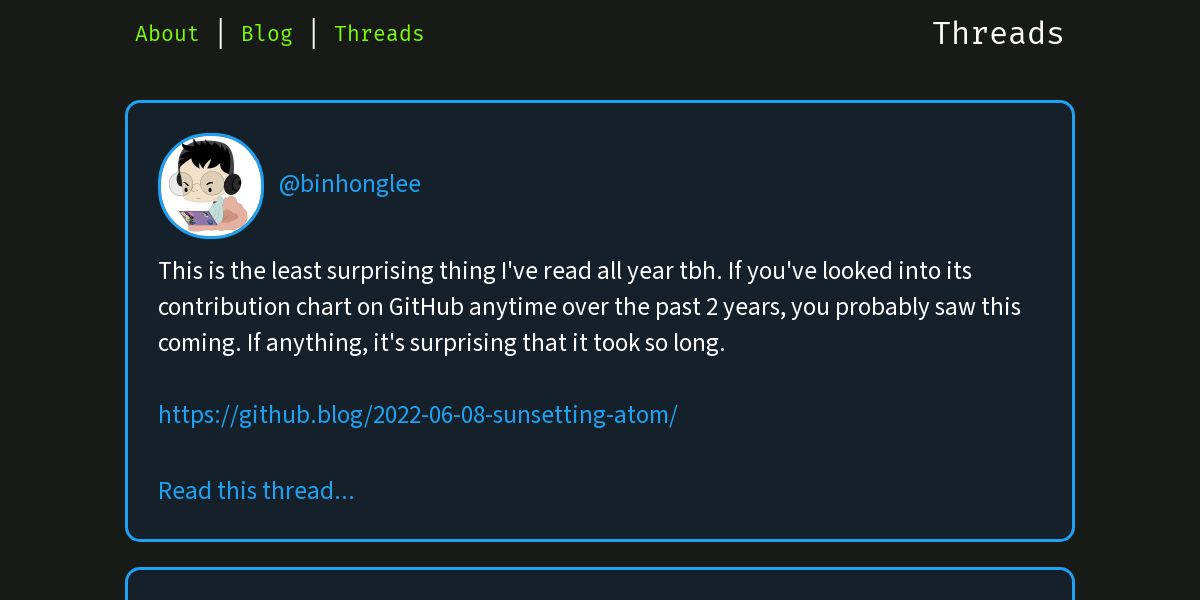
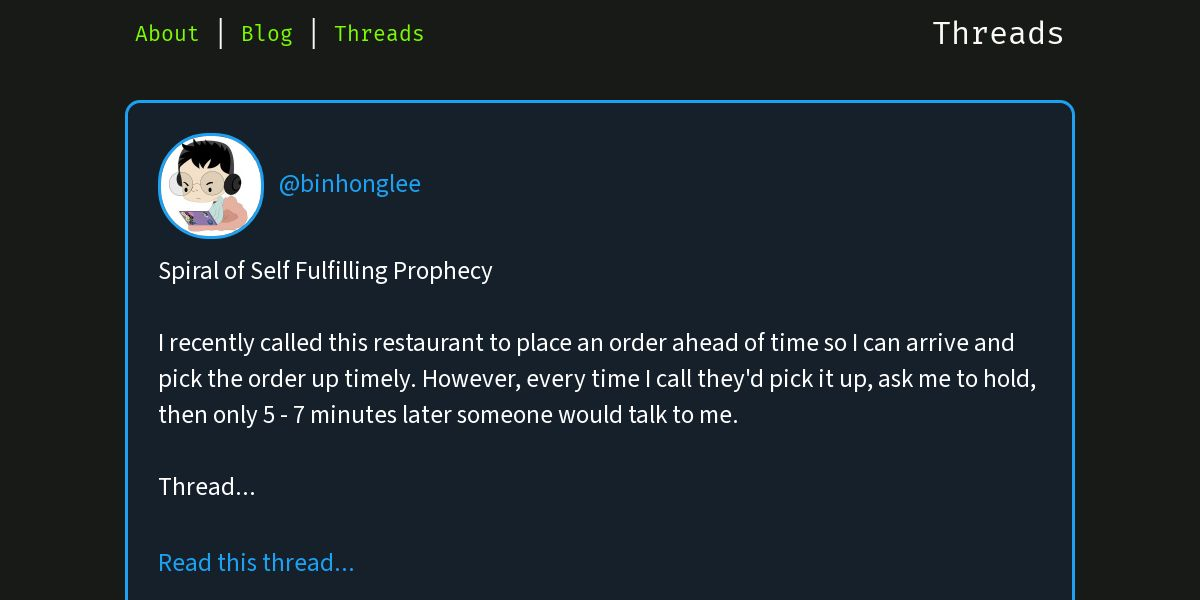
deploy: e476948deffdb2a4449fd298cbbf2c976f6730c9

Changed region(s): [[0.1233, 0.42, 0.8633, 0.72], [0.0925, 0.87, 0.8942, 0.96], [0.1233, 0.78, 0.2775, 0.84]]

diff --git a/1541251107418124288.html b/1541251107418124288.html
@@ -1,0 +1,104 @@
+<!DOCTYPE html>
+<html lang="en">
+  <head>
+    <link data-rh="true" rel="shortcut icon" href="https://binhong.me/images/profile.png" type="image/x-icon">
+    <meta charset="utf-8">
+    <meta name="viewport" content="initial-scale=0.75">
+    <meta property="og:locale" content="en_US">
+    <meta property="og:type" content="profile">
+    <meta property="og:url" content="https://binhong.me/threads">
+    <meta property="og:site_name" content="Threads by BinHong Lee">
+    <meta property="og:title" content="Threads">
+    <meta property="og:description" content="Spiral of Self Fulfilling Prophecy  I recently called this restaurant to place an order ahead of time so I can arrive and pick the order up timely. However, every time I call they'd pick it up, ask me to hold, then only 5 - 7 minutes later someone would talk to me.  Thread...">
+    <meta property="og:image" content="https://binhong.me/threads/preview/1541251107418124288.jpg">
+    <meta property="og:profile:first_name" content="BinHong">
+    <meta property="og:profile:last_name" content="Lee">
+    <meta property="og:username" content="binhong">
+    <meta name="twitter:card" content="summary_large_image">
+    <meta name="twitter:description" content="Spiral of Self Fulfilling Prophecy  I recently called this restaurant to place an order ahead of time so I can arrive and pick the order up timely. However, every time I call they'd pick it up, ask me to hold, then only 5 - 7 minutes later someone would talk to me.  Thread...">
+    <meta name="twitter:title" content="Threads by BinHong Lee">
+    <meta name="twitter:image" content="https://binhong.me/threads/preview/1541251107418124288.jpg">
+    <meta name="twitter:image:alt" content="Commissioned image icon of me coding with a pair of black headphones on while sitting on a pink bean bag wearing a light blue hoodie. The laptop is purple with a bunch of mostly MLH demo stickers on it.">
+    <meta name="twitter:site" content="@binhonglee">
+    <meta name="robots" content="max-image-preview:large">
+    <meta name="image" content="https://binhong.me/threads/preview/1541251107418124288.jpg" />
+    <title>Threads by BinHong Lee</title>
+    <link rel="stylesheet" href="https://binhong.me/fonts/fonts.css">
+    <link rel="stylesheet" href="./threads.css">
+    <link rel="stylesheet" href="https://binhong.me/blog/style.css">
+  </head>
+  <body>
+    <details class="dark_mode_toggle" role="button" open>
+      <summary>
+        <div class="content">
+          <div class="secondary_block">
+            <p class="name-title">Threads</p>
+          </div>
+        </div>
+      </summary>
+    </details>
+    <div class="wrapper">
+      <div class="content dropdown">
+        <button class="dropdown_toggle">+</button>
+        <div class="header_links">
+          <a class="link" href="https://binhong.me/">About</a>
+          <p>|</p>
+          <a class="link" href="https://binhong.me/blog">Blog</a>
+          <p>|</p>
+          <a class="link" href="https://binhong.me/threads">Threads</a>
+        </div>
+      </div>
+      <div class="content_body primary_block">
+        <div class="content tweet_block">
+          <div class="tweet_block">
+            <a rel="noopener noreferrer author" href="https://twitter.com/binhonglee/">
+              <div class="profile_picture_block">
+                <img src="https://pbs.twimg.com/profile_images/1473762920584531969/K5ay-Frc_200x200.jpg" alt="Profile picture of @binhonglee on Twitter." />
+                @binhonglee
+              </div>
+            </a>
+            <p class="text">Spiral of Self Fulfilling Prophecy
+            <br />
+            <br />I recently called this restaurant to place an order ahead of time so I can arrive and pick the order up timely. However, every time I call they'd pick it up, ask me to hold, then only 5 - 7 minutes later someone would talk to me.
+            <br />
+            <br />Thread...</p>
+            <p class="text">While waiting, I started to think about why would a restaurant put "taking an order over phone" at such a low priority. Obviously I don't know the inner workings of the restaurant and I've never operated a restaurant myself so these are all pure speculations.</p>
+            <p class="text">I figured maybe it's because the volume of phone call is low so the incentive of improving the process is low. But then, what if the volume is only low because the customers are "trained" (with bad experiences) to not place order over phone?</p>
+            <p class="text">less calls -&gt; less sale volume -&gt; lower priority -&gt; bad experience -&gt; less calls
+            <br />
+            <br />You get the idea. It "could" go the other way too (until it reaches the point of diminishing return).
+            <br />
+            <br />PS: I say "could" because we don't know. This could also be peak number of calls, who know?</p>
+            <p class="text">In that case, this sounds like self-fulfilling prophecy. By assuming low value, you put low emphasis on something, and in return got low value (which you'd then proudly point at it and say "I told you so").</p>
+            <p class="text">"Most of the time, you either put in 100% of the effort to get 100% of the result or anything less for 0%. When something doesn't work out, people claim that they know it wouldn't work out so they put in less effort. Of course it didn't, you didn't actually tried meaningfully."</p>
+            <p class="text">I put that in quotes because I remember hearing someone said this to my mum when I was much younger (like in my teens) and thought it was interesting.
+            <br />
+            <br />(Note: I think this person was trying to get my mum to join their MLM so I won't get into the weeds of it.)</p>
+            <p class="text">Maybe they were quoting someone else, I wouldn't know, but it stuck with me enough that I still think about things like this sometimes. (The conversation was also in Mandarin so I roughly translated that quote.)</p>
+            <p class="text">Did I fail because I didn't try hard enough or because I focus on the wrong stuff? It's sometimes hard to tell without actually fail first. Maybe next time when approaching a problem, don't go with a predetermined failure in mind. Give it a shot. Who knows if it'll actually work.</p>
+            <p class="text">That said, I'm not saying you should just go around and be like "well I haven't fail yet, maybe you sucked". It's also important to not be egoistic and think you're *that* much different than everyone else. Ask for advice and learn how others have attempted to solve the problem.</p>
+            <p class="date">
+              <a rel="noopener noreferrer alternate" href="https://twitter.com/binhonglee/status/1541251095200116736">6/27/2022</a>
+            </p>
+          </div>
+        </div>
+      </div>
+      <footer class="content">
+        <div class="primary_block footer">
+          <div class="row">
+            <p>Fonts:</p>
+            <a href="https://github.com/tonsky/FiraCode/" rel="noopener" target="_blank">Fira Code</a>,
+            <a href="https://github.com/adobe-fonts/source-sans/" rel="noopener" target="_blank" class="name">Source Sans 3</a>
+          </div>
+          <div class="row">
+            <a href="https://github.com/binhonglee/threads" rel="noopener" target="_blank">Source (GitHub)</a> </p>
+          </div>
+          <div class="row">
+            <p>&copy; 2021</p>
+            <a class="name" href="https://binhong.me">BinHong Lee</a>
+          </div>
+        </div>
+      </footer>
+    </div>
+  </body>
+</html>

diff --git a/index.html b/index.html
@@ -58,6 +58,22 @@
                 @binhonglee
               </div>
             </a>
+            <p class="text">Spiral of Self Fulfilling Prophecy
+            <br />
+            <br />I recently called this restaurant to place an order ahead of time so I can arrive and pick the order up timely. However, every time I call they'd pick it up, ask me to hold, then only 5 - 7 minutes later someone would talk to me.
+            <br />
+            <br />Thread...</p>
+            <p class="date">
+              <a href="./1541251107418124288.html">Read this thread...</a>
+            </p>
+          </div>
+          <div class="tweet">
+            <a rel="noopener noreferrer" href="https://twitter.com/binhonglee/">
+              <div class="profile_picture_block">
+                <img src="https://pbs.twimg.com/profile_images/1473762920584531969/K5ay-Frc_200x200.jpg" alt="Profile picture of @binhonglee on Twitter." />
+                @binhonglee
+              </div>
+            </a>
             <p class="text">This is the least surprising thing I've read all year tbh. If you've looked into its contribution chart on GitHub anytime over the past 2 years, you probably saw this coming. If anything, it's surprising that it took so long.
             <br />
             <br /><a style="word-break:break-all;" rel="noopener noreferrer" href="https://github.blog/2022-06-08-sunsetting-atom/" >https://github.blog/2022-06-08-sunsetting-atom/</a></p>
